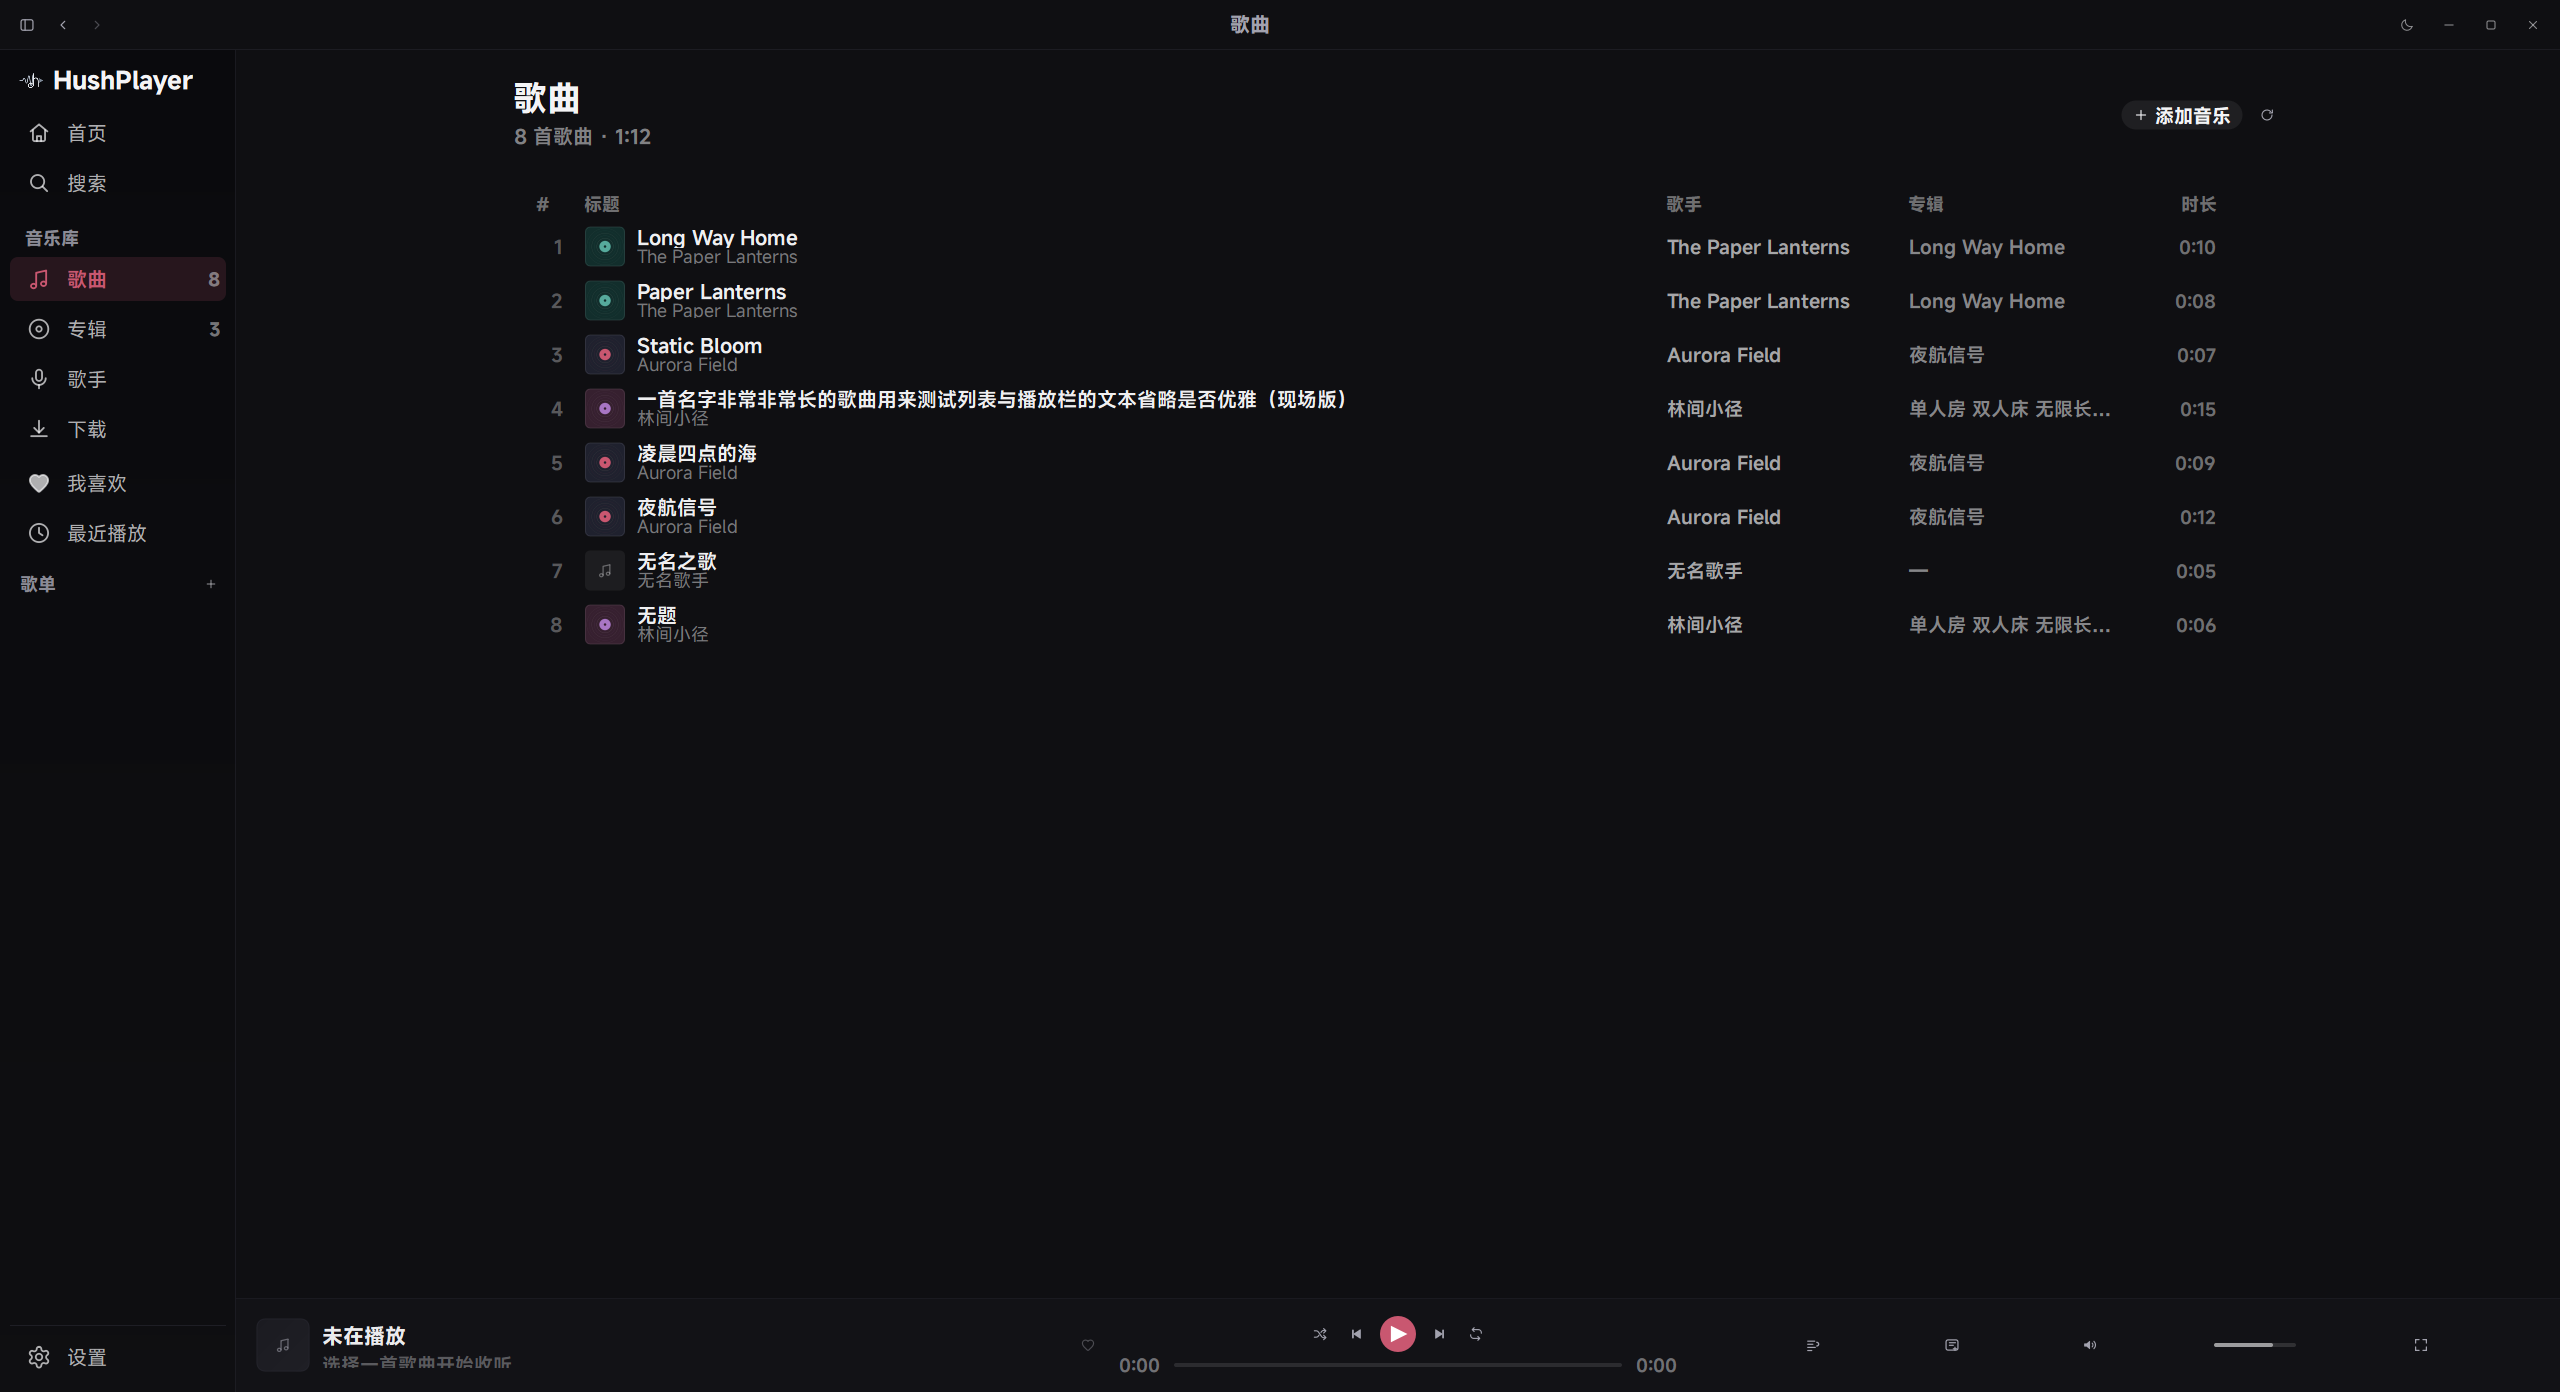
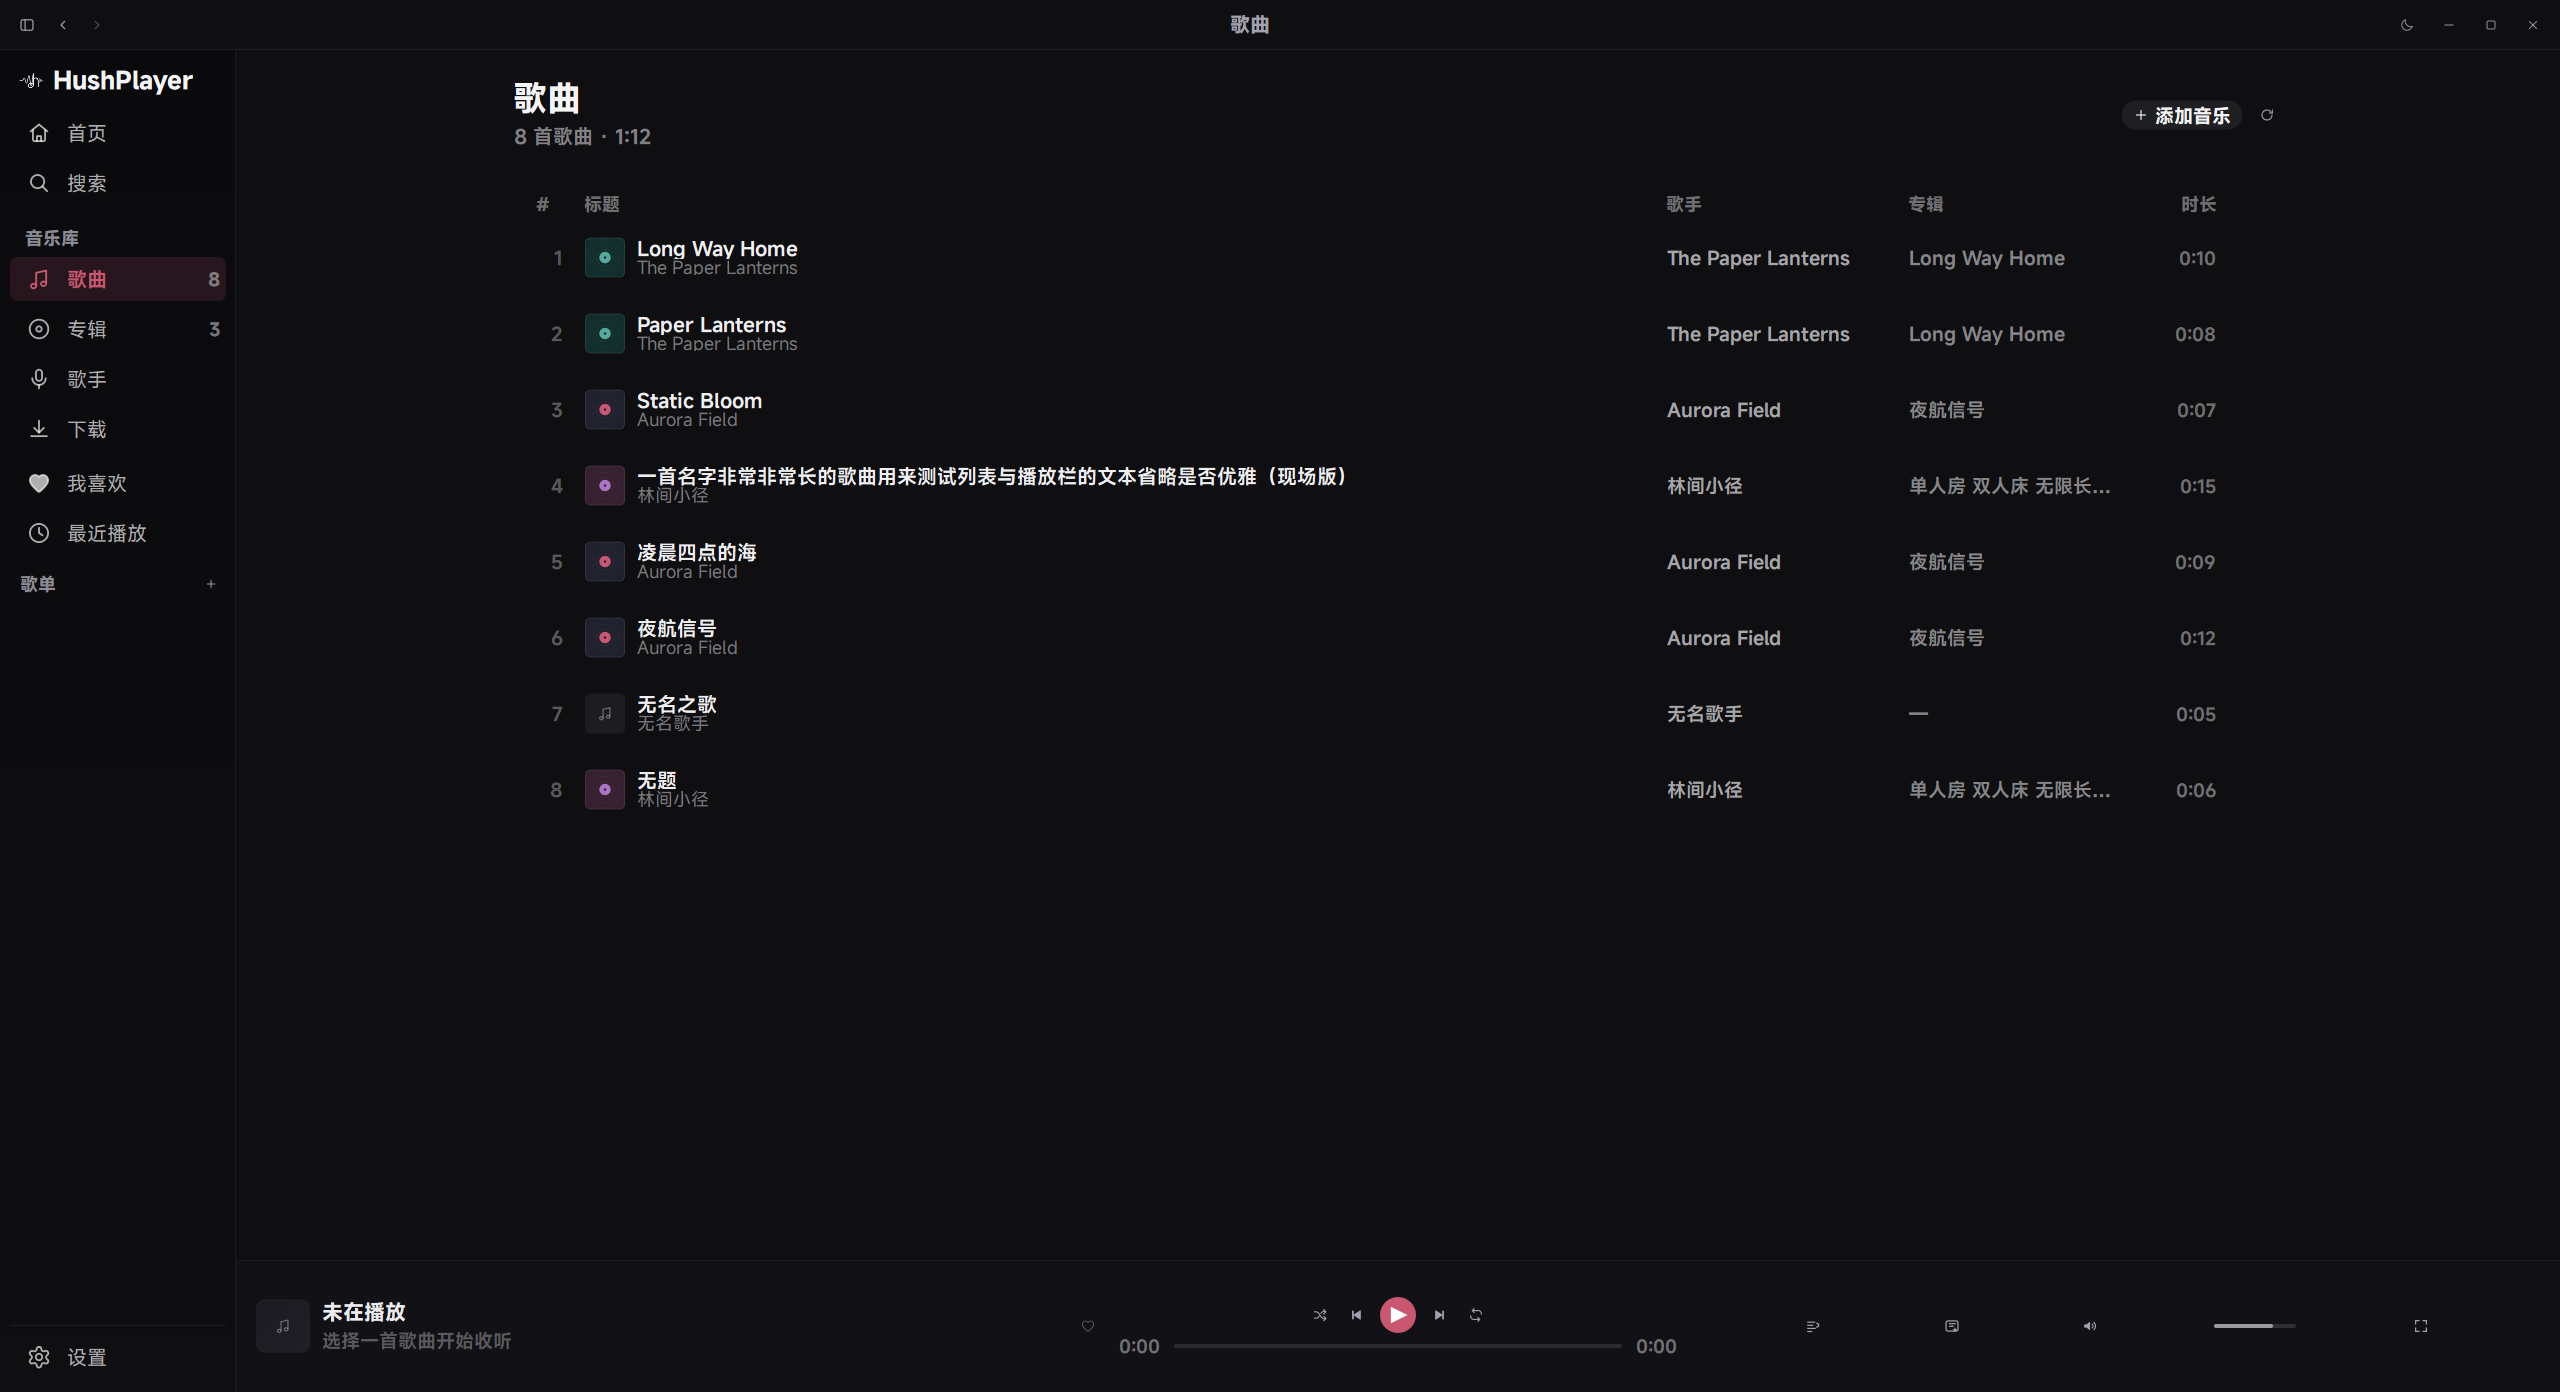
fix(1.0.31): 列表行高与主题预览按度量计算，播放栏列宽收紧

diff --git a/hushplayer/ui/widgets/settings_widgets.py b/hushplayer/ui/widgets/settings_widgets.py
@@ -500,7 +500,6 @@ class ThemePicker(QWidget):
 
     OPTIONS = [("system", "跟随系统", "随 Windows 设置"), ("light", "浅色", "始终浅色"), ("dark", "深色", "始终深色")]
     TILE_W = 132
-    TILE_H = 108
     GAP = 12
 
     def __init__(self, value: str = "system", parent: QWidget | None = None) -> None:
@@ -511,6 +510,20 @@ class ThemePicker(QWidget):
         self.setCursor(Qt.PointingHandCursor)
         self.setFocusPolicy(Qt.StrongFocus)
         self.setAccessibleName("主题")
+        # Tile height is derived from the two label rows, otherwise enlarged
+        # type overlaps the preview (it used to be a fixed 108 px block).
+        label_metrics = QFontMetrics(theme().font(9.4, 600))
+        hint_metrics = QFontMetrics(theme().font(7.8, 400))
+        self._label_h = label_metrics.height()
+        self._hint_h = hint_metrics.height()
+        self._preview_h = theme().scaled(78, factor=0.6)
+        self._label_gap = 4
+        self._hint_gap = 2
+        self.TILE_H = (
+            self._preview_h + self._label_gap + self._label_h + self._hint_gap + self._hint_h
+        )
+        self.TILE_W = theme().scaled(type(self).TILE_W, factor=0.6)
+        self.GAP = theme().scaled(12, factor=0.6)
         self.setFixedSize(3 * self.TILE_W + 2 * self.GAP, self.TILE_H)
 
     # ------------------------------------------------------------------ API
@@ -581,7 +594,7 @@ class ThemePicker(QWidget):
             key, label, hint = self.OPTIONS[index]
             selected = key == self._value
             hovered = key == self._hover
-            preview = QRectF(rect.left(), rect.top(), rect.width(), rect.height() - 30)
+            preview = QRectF(rect.left(), rect.top(), rect.width(), self._preview_h)
             radius = 11.0
             clip = preview.adjusted(2.5, 2.5, -2.5, -2.5)
 
@@ -630,7 +643,7 @@ class ThemePicker(QWidget):
             painter.setFont(font)
             painter.setPen(QPen(accent if selected else qcolor(palette.text)))
             painter.drawText(
-                QRectF(rect.left(), preview.bottom() + 4, rect.width(), 13),
+                QRectF(rect.left(), preview.bottom() + self._label_gap, rect.width(), self._label_h),
                 int(Qt.AlignHCenter | Qt.AlignVCenter),
                 label,
             )
@@ -642,7 +655,12 @@ class ThemePicker(QWidget):
                 resolved = "深色" if theme().mode == "dark" else "浅色"
                 text = f"当前 {resolved}"
             painter.drawText(
-                QRectF(rect.left(), preview.bottom() + 16, rect.width(), 12),
+                QRectF(
+                    rect.left(),
+                    preview.bottom() + self._label_gap + self._label_h + self._hint_gap,
+                    rect.width(),
+                    self._hint_h,
+                ),
                 int(Qt.AlignHCenter | Qt.AlignVCenter),
                 text,
             )

diff --git a/hushplayer/ui/widgets/playerbar.py b/hushplayer/ui/widgets/playerbar.py
@@ -29,7 +29,7 @@ class TrackInfo(QWidget):
         self._status = ""
         self._hover = HoverAnimation(self, 120)
         self.setMinimumWidth(240)
-        self.setMaximumWidth(520)
+        self.setMaximumWidth(theme().scaled(200, factor=0.6))
         self.setCursor(Qt.PointingHandCursor)
         self.setSizePolicy(QSizePolicy.Expanding, QSizePolicy.Fixed)
         self._fit_height()
@@ -176,7 +176,7 @@ class PlayerBar(QWidget):
         self.favorite = IconButton("heart", size=28, icon_size=16, tooltip="添加到「我喜欢」")
         self.favorite.clicked.connect(self._toggle_favorite)
         left.addWidget(self.favorite, 0, Qt.AlignVCenter)
-        grid.addLayout(left, 0, 0)
+        grid.addLayout(left, 0, 0, Qt.AlignLeft)
 
         # ---------------------------------------------------------- centre
         centre = QWidget()
@@ -224,11 +224,13 @@ class PlayerBar(QWidget):
         self.immersive = IconButton("immersive", size=32, icon_size=17, tooltip="沉浸式播放 (Ctrl+M)")
         for widget in (self.lyrics_button, self.queue_button, self.mute, self.volume, self.immersive):
             right.addWidget(widget, 0, Qt.AlignVCenter)
-        grid.addLayout(right, 0, 2)
+        grid.addLayout(right, 0, 2, Qt.AlignRight)
         self._grid = grid
-        grid.setColumnStretch(0, 1)
-        grid.setColumnStretch(1, 0)
-        grid.setColumnStretch(2, 1)
+        # Only the centre column absorbs slack, so the two side clusters keep
+        # their natural widths instead of drifting towards the window edges.
+        grid.setColumnStretch(0, 0)
+        grid.setColumnStretch(1, 1)
+        grid.setColumnStretch(2, 0)
 
         self._wire()
 
@@ -417,8 +419,8 @@ class PlayerBar(QWidget):
         self._grid.setColumnMinimumWidth(0, side)
         self._grid.setColumnMinimumWidth(2, side)
         info_width = max(96, side - 54 - 28 - 24)
-        self.info.setMinimumWidth(min(info_width, 260))
-        self.info.setMaximumWidth(info_width)
+        self.info.setMinimumWidth(min(info_width, theme().scaled(150, factor=0.6)))
+        self.info.setMaximumWidth(min(info_width, theme().scaled(200, factor=0.6)))
 
 
 class TimeLabel(QWidget):

diff --git a/hushplayer/ui/widgets/tracklist.py b/hushplayer/ui/widgets/tracklist.py
@@ -679,7 +679,7 @@ class TrackTable(QTableView):
         self.customContextMenuRequested.connect(self._on_context_menu)
         self.setAlternatingRowColors(False)
         self.verticalHeader().setVisible(False)
-        self.verticalHeader().setDefaultSectionSize(54)
+        self.verticalHeader().setDefaultSectionSize(theme().scaled(54, factor=0.8))
         self.verticalHeader().setSectionResizeMode(QHeaderView.Fixed)
         self.horizontalHeader().setVisible(False)
         self.horizontalHeader().setSectionResizeMode(QHeaderView.Fixed)
@@ -746,7 +746,9 @@ class TrackTable(QTableView):
 
     def set_compact(self, compact: bool) -> None:
         self._model.set_compact(compact)
-        self.verticalHeader().setDefaultSectionSize(44 if compact else 54)
+        self.verticalHeader().setDefaultSectionSize(
+            theme().scaled(44 if compact else 54, factor=0.8)
+        )
         self._apply_columns()
         self.viewport().update()
 
@@ -863,7 +865,9 @@ class TrackTable(QTableView):
         self._header.set_widths(resolved)
         if self._model.compact != compact:
             self._model.compact = compact
-            self.verticalHeader().setDefaultSectionSize(44 if compact else 54)
+            self.verticalHeader().setDefaultSectionSize(
+            theme().scaled(44 if compact else 54, factor=0.8)
+        )
         self._header.update()
 
     def resizeEvent(self, event) -> None:  # noqa: N802

diff --git a/tools/probe_r36_layout.py b/tools/probe_r36_layout.py
@@ -1,0 +1,29 @@
+import os, sys
+sys.path.insert(0, ".")
+os.environ["HUSHPLAYER_DATA_DIR"] = os.path.abspath("artifacts/qa/r36/data")
+os.environ["HUSHPLAYER_TYPE_SCALE"] = "1.5"
+from pathlib import Path
+from PySide6.QtCore import QTimer
+from PySide6.QtWidgets import QApplication
+from hushplayer.app import HushApp
+from hushplayer.ui.context import ctx
+
+app = QApplication(sys.argv); hush = HushApp(app); hush.start()
+ctx().library.import_files([str(p) for p in Path("tests/fixtures/audio").rglob("*") if p.is_file()])
+win = ctx().window; win.resize(2560, 1392)
+steps = []
+def grab(tag):
+    win.grab().save(f"artifacts/qa/r36/{tag}.png")
+def seq():
+    win.navigate("songs"); app.processEvents(); QTimer.singleShot(300, lambda: (grab("songs"), step2()))
+def step2():
+    settings = ctx().window.findChild(type(ctx().window._page("settings")), None)
+    win.navigate("settings"); app.processEvents()
+    page = ctx().window._page("settings")
+    page.show_section("appearance") if hasattr(page, "show_section") else None
+    QTimer.singleShot(400, lambda: (grab("settings"), step3()))
+def step3():
+    win.navigate("home"); app.processEvents(); QTimer.singleShot(400, lambda: (grab("home"), finish()))
+def finish():
+    print("RESULT PASS", flush=True); app.quit()
+QTimer.singleShot(800, seq); app.exec(); hush.shutdown()

diff --git a/tools/probe_r36_appearance.py b/tools/probe_r36_appearance.py
@@ -1,0 +1,23 @@
+import os, sys
+sys.path.insert(0, ".")
+os.environ["HUSHPLAYER_DATA_DIR"] = os.path.abspath("artifacts/qa/r36/data")
+os.environ["HUSHPLAYER_TYPE_SCALE"] = "1.5"
+from pathlib import Path
+from PySide6.QtCore import QTimer
+from PySide6.QtWidgets import QApplication
+from hushplayer.app import HushApp
+from hushplayer.ui.context import ctx
+
+app = QApplication(sys.argv); hush = HushApp(app); hush.start()
+ctx().library.import_files([str(p) for p in Path("tests/fixtures/audio").rglob("*") if p.is_file()])
+win = ctx().window; win.resize(2560, 1392)
+def go():
+    win.navigate("settings"); app.processEvents()
+    page = win._page("settings")
+    page._show_section(1)
+    app.processEvents()
+    QTimer.singleShot(500, shot)
+def shot():
+    win.grab().save("artifacts/qa/r36/appearance.png")
+    print("RESULT PASS", flush=True); app.quit()
+QTimer.singleShot(800, go); app.exec(); hush.shutdown()

diff --git a/hushplayer/ui/widgets/sliders.py b/hushplayer/ui/widgets/sliders.py
@@ -31,6 +31,7 @@ class SeekBar(QWidget):
         self._animation.valueChanged.connect(self._on_hover_value)
         self.setFixedHeight(20)
         self.setMinimumWidth(120)
+        self.setMaximumWidth(theme().scaled(420, factor=0.6))
         self.setSizePolicy(QSizePolicy.Expanding, QSizePolicy.Fixed)
         self.setMouseTracking(True)
         self.setFocusPolicy(Qt.StrongFocus)

diff --git a/hushplayer/version.py b/hushplayer/version.py
@@ -4,7 +4,7 @@ from __future__ import annotations
 
 APP_NAME = "HushPlayer"
 APP_ID = "com.hushplayer.desktop"
-VERSION = "1.0.30"
+VERSION = "1.0.31"
 BUILD_CHANNEL = "stable"
 VERSION_TUPLE = tuple(int(part) for part in VERSION.split("."))
 

diff --git a/docs/CHANGELOG.md b/docs/CHANGELOG.md
@@ -1,5 +1,18 @@
 # Changelog
 
+## v1.0.31 — 2026-10-09
+
+修掉放大字号后暴露的三处挤压：列表行、主题预览卡、播放栏控件分布。
+
+### 改动
+- 歌曲/搜索结果列表：行高改为按「封面 + 两行文字 + 内边距」计算（`theme().scaled`），1.5 倍时约 53px；标题与副标题不再互相压住。
+- 设置「主题」预览：卡片高度由两行标签的 `QFontMetrics.height()` 推出，标签画在预览图下方，不再叠在卡片边上。
+- 播放栏：列宽策略改为「只有中列吸收剩余空间」，左右两组保持自然宽度；封面信息区最大宽度收紧（`scaled(200)`），心形按钮紧跟歌曲信息，不再飘到中间。
+
+### 验证
+- `pytest`：181 passed / 0 failed。
+- 截图：`docs/screenshots/songs_150.png`、`docs/screenshots/settings_150.png`、`docs/screenshots/playerbar_150.png`。
+
 ## v1.0.30 — 2026-10-09
 
 分区导航与侧栏的图标改为「对齐文字墨迹」，而不是对齐行盒。
